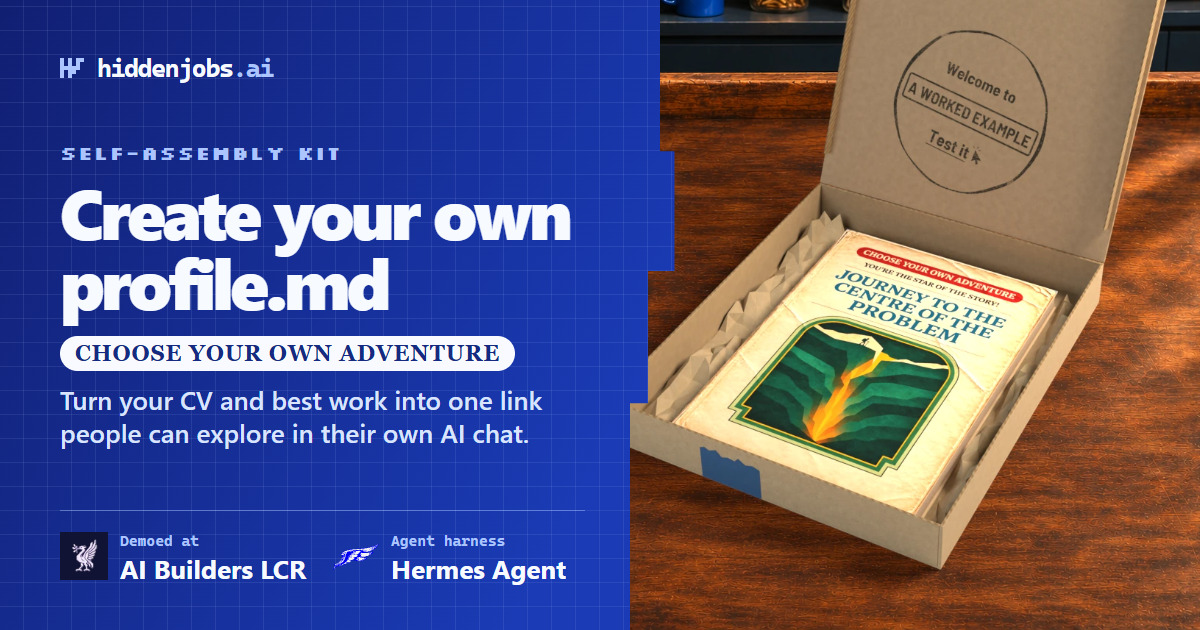
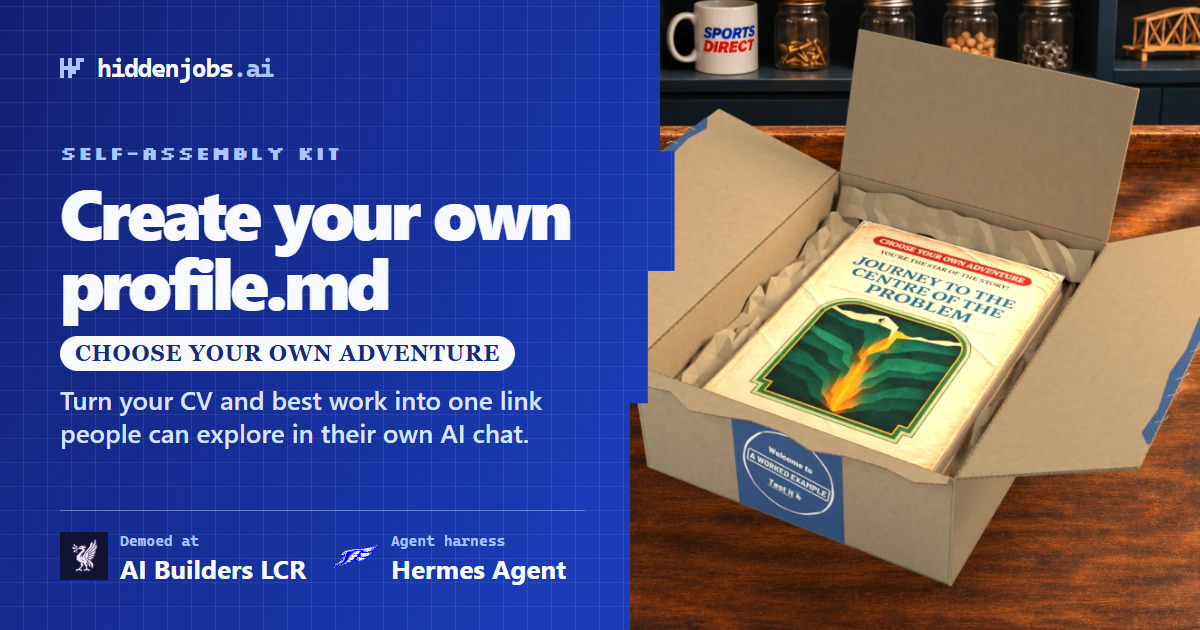
Ship the white-stamped workshop parcel

Changed region(s): [[0.5242, 0.0, 1.0, 1.0], [0.7708, 0.2111, 0.8017, 0.2413]]

diff --git a/profile-md/index.html b/profile-md/index.html
@@ -11,15 +11,15 @@
   <meta property="og:title" content="Create your own profile.md">
   <meta property="og:description" content="A Choose Your Own Adventure for your CV and best work. One link people can explore in their own AI chat.">
   <meta property="og:url" content="https://hiddenjobs.ai/profile-md/">
-  <meta property="og:image" content="https://hiddenjobs.ai/assets/profile-md-share.jpg?v=communities">
+  <meta property="og:image" content="https://hiddenjobs.ai/assets/profile-md-share.jpg?v=parcel">
   <meta property="og:image:type" content="image/jpeg">
   <meta property="og:image:width" content="1200">
   <meta property="og:image:height" content="630">
-  <meta property="og:image:alt" content="Create your own profile.md. A Choose Your Own Adventure for your CV and best work. An open book mailer sits beside the AI Builders LCR and Hermes Agent logos.">
+  <meta property="og:image:alt" content="Create your own profile.md. A Choose Your Own Adventure for your CV and best work. An open delivery carton sits beside the AI Builders LCR and Hermes Agent logos.">
   <meta name="twitter:card" content="summary_large_image">
-  <meta name="twitter:image" content="https://hiddenjobs.ai/assets/profile-md-share.jpg?v=communities">
-  <meta name="twitter:image:alt" content="Create your own profile.md. A Choose Your Own Adventure for your CV and best work. An open book mailer sits beside the AI Builders LCR and Hermes Agent logos.">
-  <link rel="stylesheet" href="../assets/site.css?v=recessed-edges">
+  <meta name="twitter:image" content="https://hiddenjobs.ai/assets/profile-md-share.jpg?v=parcel">
+  <meta name="twitter:image:alt" content="Create your own profile.md. A Choose Your Own Adventure for your CV and best work. An open delivery carton sits beside the AI Builders LCR and Hermes Agent logos.">
+  <link rel="stylesheet" href="../assets/site.css?v=parcel">
   <script src="../assets/profile.js?v=workbench-depth" defer></script>
   <title>Create your own CYOA profile.md | Hidden Jobs</title>
 </head>

diff --git a/index.html b/index.html
@@ -11,14 +11,14 @@
   <meta property="og:title" content="Create your own profile.md">
   <meta property="og:description" content="A Choose Your Own Adventure for your CV and best work. One link people can explore in their own AI chat.">
   <meta property="og:url" content="https://hiddenjobs.ai/profile-md/">
-  <meta property="og:image" content="https://hiddenjobs.ai/assets/profile-md-share.jpg?v=communities">
+  <meta property="og:image" content="https://hiddenjobs.ai/assets/profile-md-share.jpg?v=parcel">
   <meta property="og:image:type" content="image/jpeg">
   <meta property="og:image:width" content="1200">
   <meta property="og:image:height" content="630">
-  <meta property="og:image:alt" content="Create your own profile.md. A Choose Your Own Adventure for your CV and best work. An open book mailer sits beside the AI Builders LCR and Hermes Agent logos.">
+  <meta property="og:image:alt" content="Create your own profile.md. A Choose Your Own Adventure for your CV and best work. An open delivery carton sits beside the AI Builders LCR and Hermes Agent logos.">
   <meta name="twitter:card" content="summary_large_image">
-  <meta name="twitter:image" content="https://hiddenjobs.ai/assets/profile-md-share.jpg?v=communities">
-  <meta name="twitter:image:alt" content="Create your own profile.md. A Choose Your Own Adventure for your CV and best work. An open book mailer sits beside the AI Builders LCR and Hermes Agent logos.">
+  <meta name="twitter:image" content="https://hiddenjobs.ai/assets/profile-md-share.jpg?v=parcel">
+  <meta name="twitter:image:alt" content="Create your own profile.md. A Choose Your Own Adventure for your CV and best work. An open delivery carton sits beside the AI Builders LCR and Hermes Agent logos.">
   <title>Hidden Jobs</title>
 </head>
 <body>

diff --git a/assets/site.css b/assets/site.css
@@ -489,12 +489,12 @@ a { color: var(--ink); text-underline-offset: 0.22em; }
 .workshop[data-view="depth"] .box-example:focus-visible strong { outline: 2px solid currentColor; outline-offset: 0.22em; }
 
 .workshop[data-render="geometry"] .box-label {
-  width: max(100cqw, 184cqh);
-  background-image: url("./profile-kit-physical.webp");
+  width: max(100cqw, 151cqh);
+  background-image: url("./profile-kit-parcel.webp");
 }
 
-/* The cover and ink are already rendered on their surfaces in this image. */
-.workshop[data-render="geometry"] :is(.workshop-book, .box-lid) {
+/* This render includes the cover, stamp and shelf props. */
+.workshop[data-render="geometry"] :is(.workshop-book, .box-lid, .shelf-badge) {
   display: none;
 }
 
